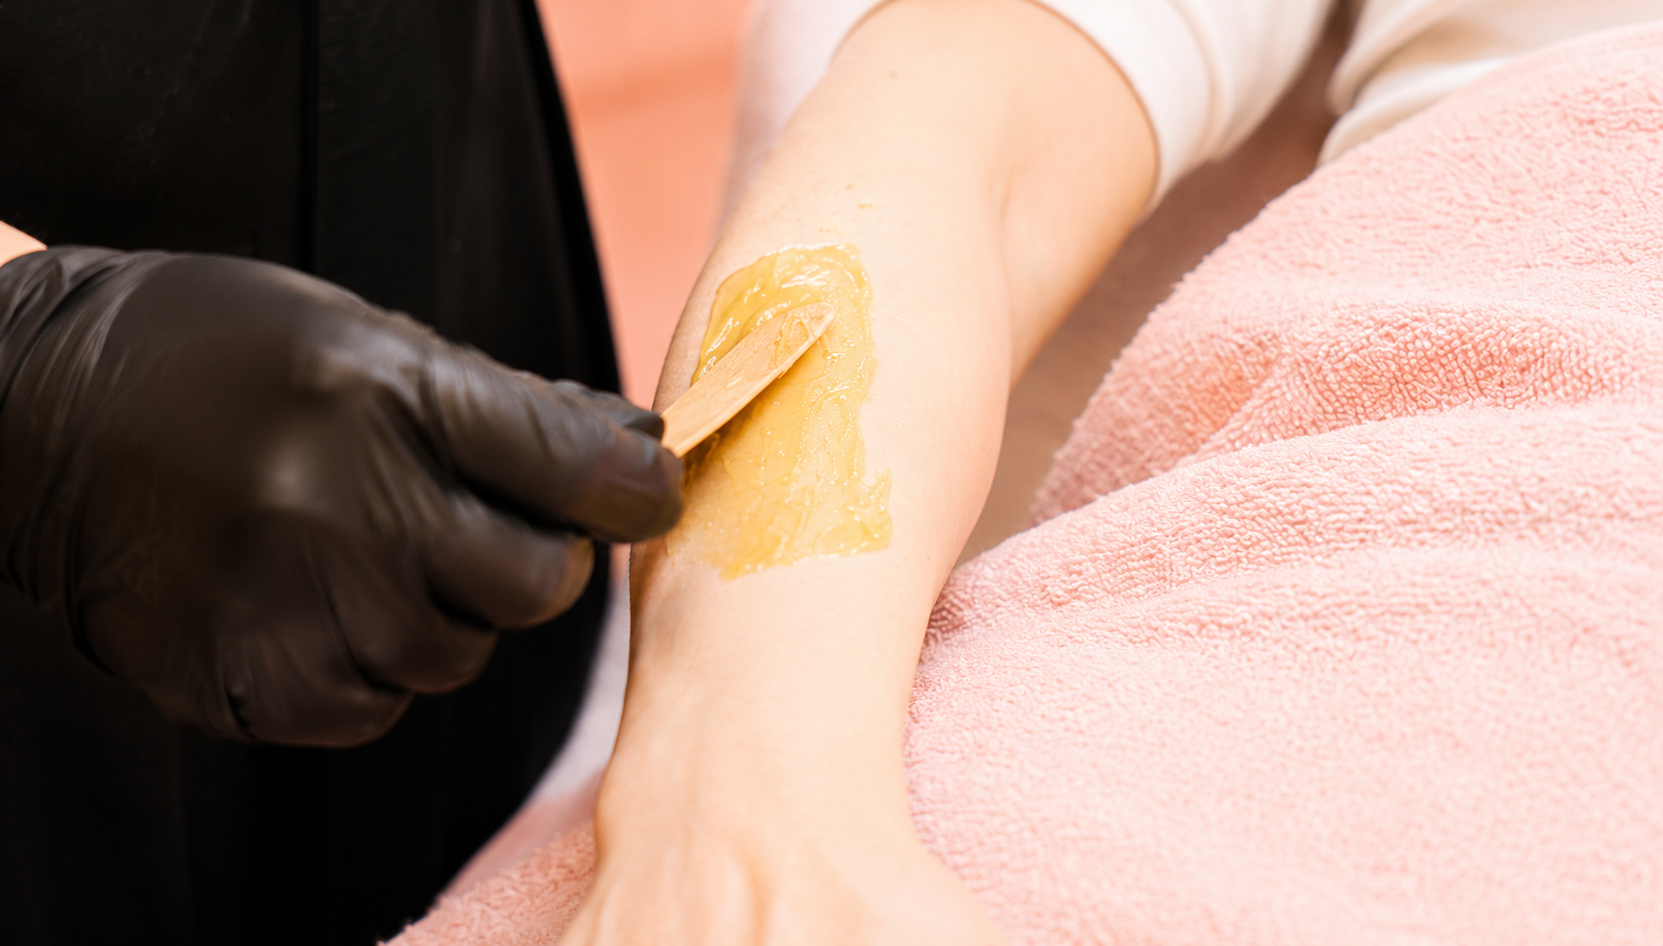
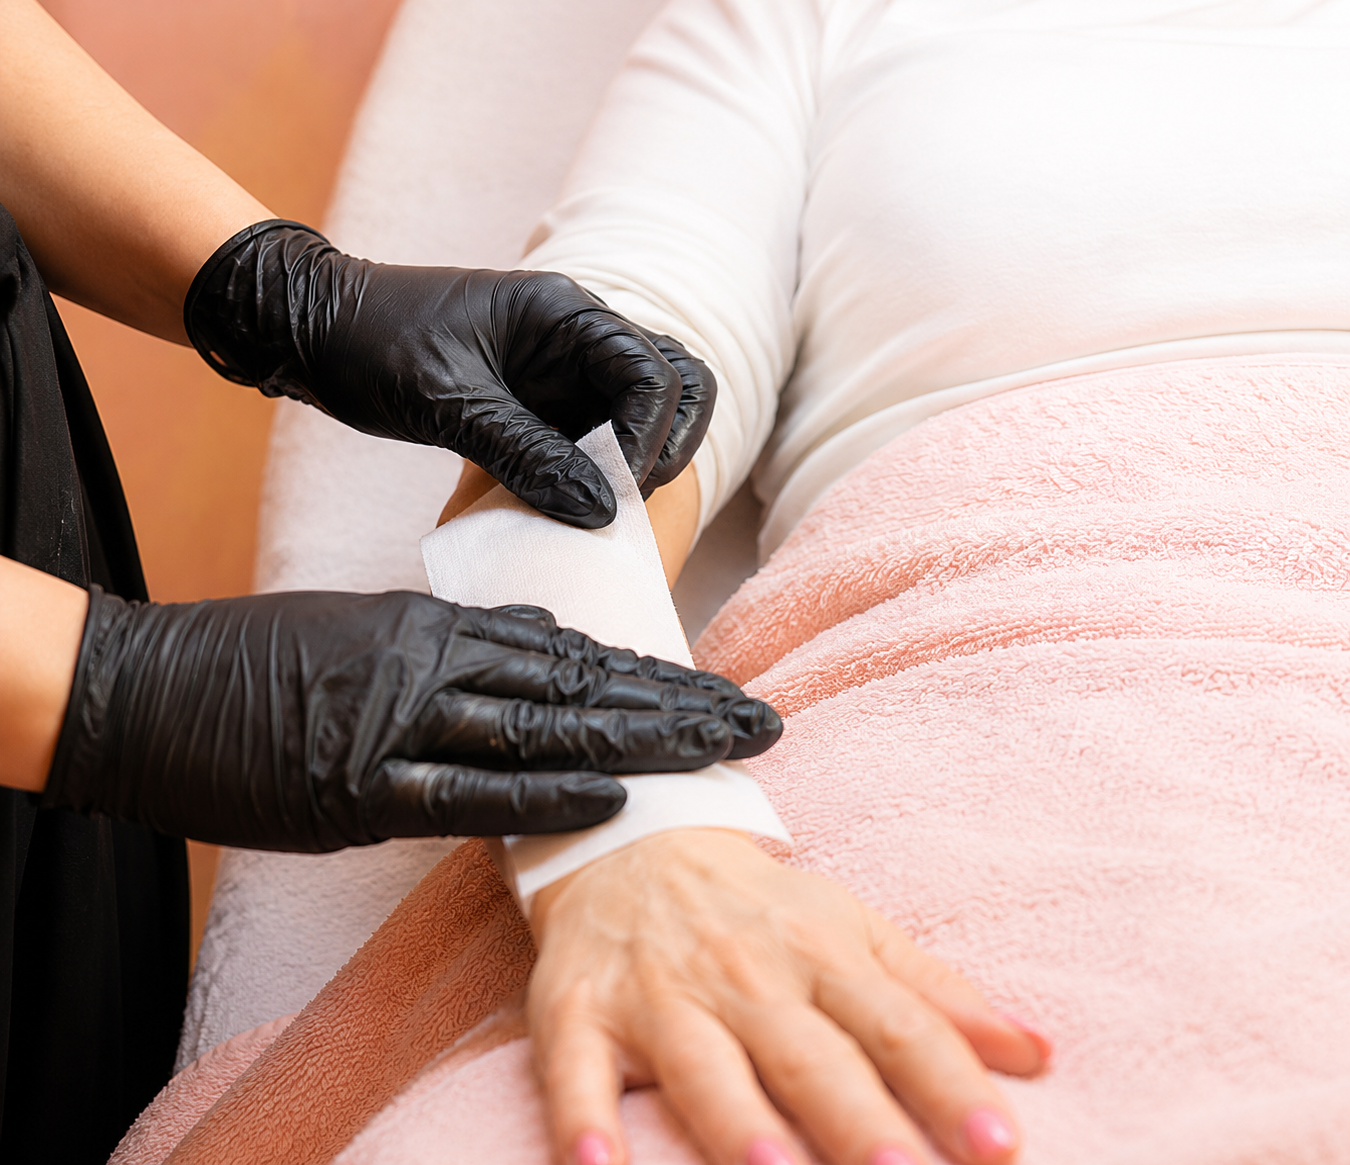
Add Waxing 3-image grid with wax1-3 photos

diff --git a/src/pages/Leistungen.tsx b/src/pages/Leistungen.tsx
@@ -14,6 +14,9 @@ import lashlift3Img from "@/assets/lashlift3.jpg";
 import shellack01Img from "@/assets/shellack01.jpeg";
 import shellack02Img from "@/assets/shellack02.jpeg";
 import shellack03Img from "@/assets/shellack03.jpeg";
+import wax1Img from "@/assets/wax1.png";
+import wax2Img from "@/assets/wax2.png";
+import wax3Img from "@/assets/wax3.png";
 import nagel6Img from "@/assets/nagel6.jpg";
 import nagel8Img from "@/assets/nagel8.jpg";
 import nagel11Img from "@/assets/nagel11.jpeg";
@@ -355,6 +358,15 @@ export default function Leistungen() {
                   <div className="lsv-img-wrap"><img src={pedi1Img} alt="Pediküre" /></div>
                   <div className="lsv-img-wrap"><img src={pedi2Img} alt="Pediküre" /></div>
                   <div className="lsv-img-wrap"><img src={pedi3Img} alt="Pediküre" /></div>
+                </div>
+              )}
+
+              {/* 3er-Bildgrid unter Waxing */}
+              {s.title === "Waxing" && (
+                <div data-r className="lsv-img-grid">
+                  <div className="lsv-img-wrap"><img src={wax1Img} alt="Waxing" /></div>
+                  <div className="lsv-img-wrap"><img src={wax2Img} alt="Waxing" /></div>
+                  <div className="lsv-img-wrap"><img src={wax3Img} alt="Waxing" /></div>
                 </div>
               )}
 
